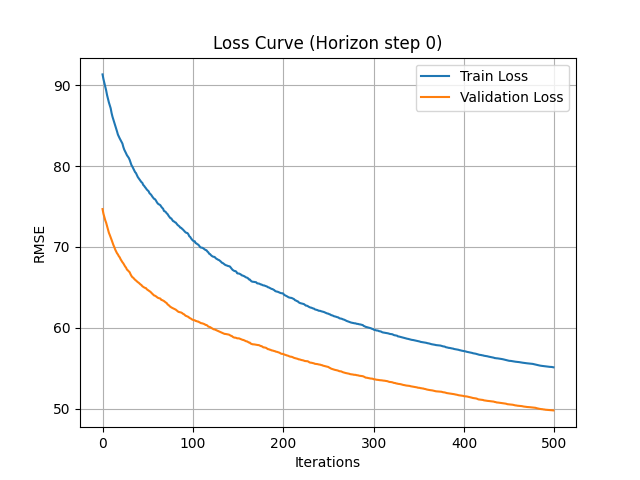
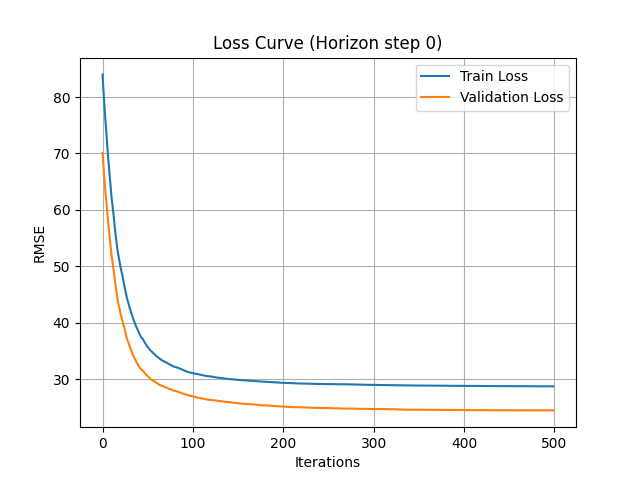
Filter only for relevant lines

diff --git a/simulator/clean_gtfs_data.py b/simulator/clean_gtfs_data.py
@@ -1,0 +1,80 @@
+import pandas as pd
+import zipfile
+import os
+import sys
+sys.path.append(
+    os.path.abspath(os.path.join(os.path.dirname(__file__), os.path.pardir)))
+import shutil
+
+
+# === CONFIG ===
+GTFS_ZIP = "C:\Master\Masterarbeit\sumo_files\GTFS.zip" #pd.read_csv("CONFIG.txt")
+OUTPUT_ZIP = "GTFS_filtered.zip"
+
+# Your station names (adjust if needed!)
+station_abbrev = pd.read_csv("data/station_list.csv")
+train_stations = pd.read_csv("data/train_stations.csv", delimiter=";")
+stations = station_abbrev.iloc[0].tolist()
+
+TARGET_STOPS = train_stations[train_stations["OPERATING_POINT_ABBREVIATION"].isin(stations)]["BP_Name"]
+TARGET_STOPS = TARGET_STOPS.str.strip()
+
+# === STEP 1: unzip ===
+with zipfile.ZipFile(GTFS_ZIP, 'r') as zip_ref:
+    zip_ref.extractall("gtfs_tmp")
+
+# === STEP 2: load files ===
+stops = pd.read_csv("gtfs_tmp/stops.txt")
+stop_times = pd.read_csv("gtfs_tmp/stop_times.txt")
+trips = pd.read_csv("gtfs_tmp/trips.txt")
+routes = pd.read_csv("gtfs_tmp/routes.txt")
+stops["stop_name_clean"] = stops["stop_name"].str.strip()
+
+# === STEP 3: filter stops ===
+filtered_stops = stops[stops["stop_name_clean"].isin(TARGET_STOPS)]
+
+stop_ids = set(filtered_stops["stop_id"])
+
+# === STEP 5: find stop_times touching your target stops ===
+touching_stop_times = stop_times[stop_times["stop_id"].isin(stop_ids)]
+
+# === STEP: find trips that serve at least N of your target stops ===
+trip_stop_counts = touching_stop_times.groupby("trip_id")["stop_id"].nunique()
+VALID_TRIPS = trip_stop_counts[trip_stop_counts >= 2].index  # lower threshold too
+
+# === STEP 5b: keep ALL stop_times for valid trips (not just target stops) ===
+filtered_stop_times = stop_times[stop_times["trip_id"].isin(VALID_TRIPS)]
+filtered_stop_times = filtered_stop_times.sort_values(["trip_id", "stop_sequence"])
+
+all_stop_ids_used = set(filtered_stop_times["stop_id"])
+filtered_stops = stops[stops["stop_id"].isin(all_stop_ids_used)]
+
+# === STEP 6: filter trips ===
+trip_ids = set(filtered_stop_times["trip_id"])
+filtered_trips = trips[trips["trip_id"].isin(trip_ids)]
+
+# === STEP 7: filter routes ===
+route_ids = set(filtered_trips["route_id"])
+filtered_routes = routes[routes["route_id"].isin(route_ids)]
+
+# === STEP 8: save cleaned GTFS ===
+os.makedirs("gtfs_filtered", exist_ok=True)
+
+filtered_stops.to_csv("gtfs_filtered/stops.txt", index=False)
+filtered_stop_times.to_csv("gtfs_filtered/stop_times.txt", index=False)
+filtered_trips.to_csv("gtfs_filtered/trips.txt", index=False)
+filtered_routes.to_csv("gtfs_filtered/routes.txt", index=False)
+
+# copy required files if present
+for file in ["agency.txt", "calendar.txt", "calendar_dates.txt"]:
+    src = f"gtfs_tmp/{file}"
+    if os.path.exists(src):
+        shutil.copy(src, f"gtfs_filtered/{file}")
+
+# === STEP 9: re-zip ===
+with zipfile.ZipFile(OUTPUT_ZIP, 'w') as zipf:
+    for root, dirs, files in os.walk("gtfs_filtered"):
+        for file in files:
+            zipf.write(os.path.join(root, file), file)
+
+print("Filtered GTFS written to", OUTPUT_ZIP)

diff --git a/graph_models/connect_weather.py b/graph_models/connect_weather.py
@@ -60,7 +60,7 @@ def prepare_neuchatel():
     #filter date
     df['reference_timestamp'] = pd.to_datetime(df['reference_timestamp'], format="%d.%m.%Y %H:%M")
     df['date'] = df['reference_timestamp']
-    mask = (df['date'] >= '2025-01-01') & (df['date'] <= '2025-06-01')
+    mask = (df['date'] >= '2025-01-01') & (df['date'] <= '2025-12-31')
     filtered_df = df[mask]
 
     filtered_df = filtered_df[cols_to_keep]
@@ -74,7 +74,7 @@ def prepare_neuchatel():
 
     neu_snow['reference_timestamp'] = pd.to_datetime(neu_snow['reference_timestamp'], format="%d.%m.%Y %H:%M")
     neu_snow['date'] = neu_snow['reference_timestamp']
-    mask_snow = (neu_snow['date'] >= '2025-01-01') & (neu_snow['date'] <= '2025-06-01')
+    mask_snow = (neu_snow['date'] >= '2025-01-01') & (neu_snow['date'] <= '2025-12-31')
     filtered_df_snow = neu_snow[mask_snow]
     filtered_neu_snow = filtered_df_snow[cols_to_keep]
     filtered_neu_snow["days"] = filtered_neu_snow["date"].dt.date
@@ -94,7 +94,7 @@ def prepare_grenchen():
     #filter date
     df['reference_timestamp'] = pd.to_datetime(df['reference_timestamp'], format="%d.%m.%Y %H:%M")
     df['date'] = df['reference_timestamp']
-    mask = (df['date'] >= '2025-01-01') & (df['date'] <= '2025-06-01')
+    mask = (df['date'] >= '2025-01-01') & (df['date'] <= '2025-12-31')
     filtered_df = df[mask]
 
     filtered_df = filtered_df[cols_to_keep]

diff --git a/data_preprocessing.py b/data_preprocessing.py
@@ -7,6 +7,7 @@ from sklearn.preprocessing import LabelEncoder
 def convert_to_parquet(filepath: str):
     print("starting conversion...")
     df = pd.read_csv(filepath)
+    print(df["OPERATIONAL_DAY"].max())
     df.to_parquet("data/train_data.parquet")
     print("conversion finished!")
 
@@ -27,6 +28,8 @@ def filter_stations(station_list = "data\station_list.csv", file_path = "data/tr
     stations = station_df.iloc[1].tolist() # second row is list of station abbreviations
     train_df = train_df[train_df["OPERATING_POINT_ABBREVIATION"].isin(stations)]
 
+    print(train_df["OPERATIONAL_DAY"].max())
+
     train_df.to_parquet("data/train_data.parquet")
 
 def filter_parquet_file(filepath: str):
@@ -43,7 +46,7 @@ def filter_parquet_file(filepath: str):
 
         mask = pc.and_(
             pc.greater_equal(table['OPERATIONAL_DAY'], '2025-01-01'),
-            pc.less_equal(table['OPERATIONAL_DAY'], '2025-06-01')
+            pc.less_equal(table['OPERATIONAL_DAY'], '2025-12-31')
         )
 
         filtered = table.filter(mask)

diff --git a/baseline_models/train_xgboost.py b/baseline_models/train_xgboost.py
@@ -12,6 +12,10 @@ my_xgboost = XGBoostBaseline()
 
 df = pd.read_parquet("data/train_data_weather.parquet")
 
+df = df[df["TRAIN_NUMBER"].isin([6010, 6011])]
+
+print(df["OPERATIONAL_DAY"].max())
+
 df = df.sort_values("OPERATION_PLANNED_TIMESTAMP")
 
 df["hour_sin"] = np.sin(2 * np.pi * df["OPERATION_ACTUAL_TIMESTAMP"].dt.hour / 24)

diff --git a/baseline_models/XGBoost.py b/baseline_models/XGBoost.py
@@ -88,9 +88,8 @@ class XGBoostBaseline:
         plt.title(f'Loss Curve (Horizon step {horizon_step})')
         plt.legend()
         plt.grid()
-        plt.show()
-
         plt.savefig("images\RMSE_curves_XGboost.png")
+        plt.show()
 
     def predict(self, X):
         if isinstance(X, pd.DataFrame):

diff --git a/graph_models/station_graph/training.py b/graph_models/station_graph/training.py
@@ -65,7 +65,7 @@ EXTERNAL_COLS = [
 # ---- Model hyper-parameters ----
 HIDDEN_DIM  = 32
 K           = 3      # Chebyshev filter order
-NUM_BLOCKS  = 3
+NUM_BLOCKS  = 2
 HORIZON     = 1      # number of future steps to predict
 
 # ---- Sequence lengths ----

diff --git a/graph_models/station_graph/utils.py b/graph_models/station_graph/utils.py
@@ -336,6 +336,7 @@ def load_and_pivot(path, STATION_FEATURE_COLS, EXTERNAL_COLS):
       - Return (station_features, external_features, station_ids, timestamps)
     """
     df = pd.read_parquet(path)
+    df = df[df["TRAIN_NUMBER"].isin([6010, 6011])] # only take train routes between Neuchatel and Biel
     STATION_COL = "OPERATING_POINT_ABBREVIATION"
     DATE_COL = "OPERATION_PLANNED_TIMESTAMP"
     TARGET_COL = "DAILY_PLAN_OPERATIONAL_DELAY_SEC"